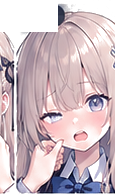
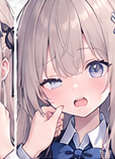
Fix broken cheek-pull image (background removal was unreliable)
The cheek-pull sprites' pale hair/skin sat too close in color to the
sheet's near-white backdrop, so both the ML segmentation models and
a manual chroma-key left visible background residue and ragged edges
behind the character. Redo the crop to keep the soft background
intact and present each reaction as a bordered card instead of a
cutout — same idea as the ending recap cards — which sidesteps the
matting problem entirely and reads cleanly either way.

Claude-Session: https://claude.ai/code/session_01UaxQ8fuEfx4xzSTjAn7EMH

diff --git a/style.css b/style.css
@@ -295,11 +295,13 @@ html, body {
 .hotspot-hand { top: 53%; height: 16%; }
 .cheek-pull-overlay {
   position: absolute;
-  top: -3%;
+  top: 4%;
   left: 50%;
   transform: translateX(-50%) scale(0.9);
-  width: 84%;
-  filter: drop-shadow(0 10px 18px rgba(0,0,0,0.5));
+  width: 72%;
+  border-radius: 16px;
+  border: 3px solid rgba(255, 92, 138, 0.65);
+  box-shadow: 0 12px 28px rgba(0,0,0,0.55);
   pointer-events: none;
   z-index: 2;
   opacity: 0;
